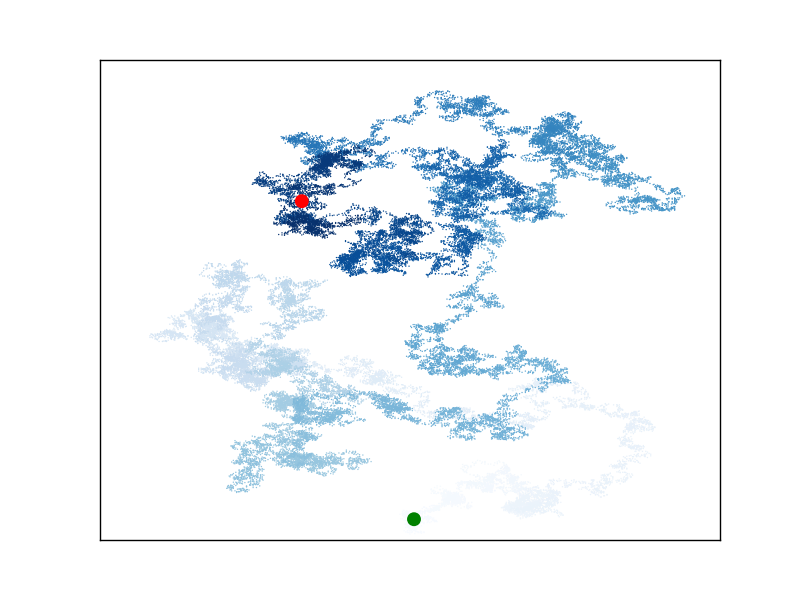
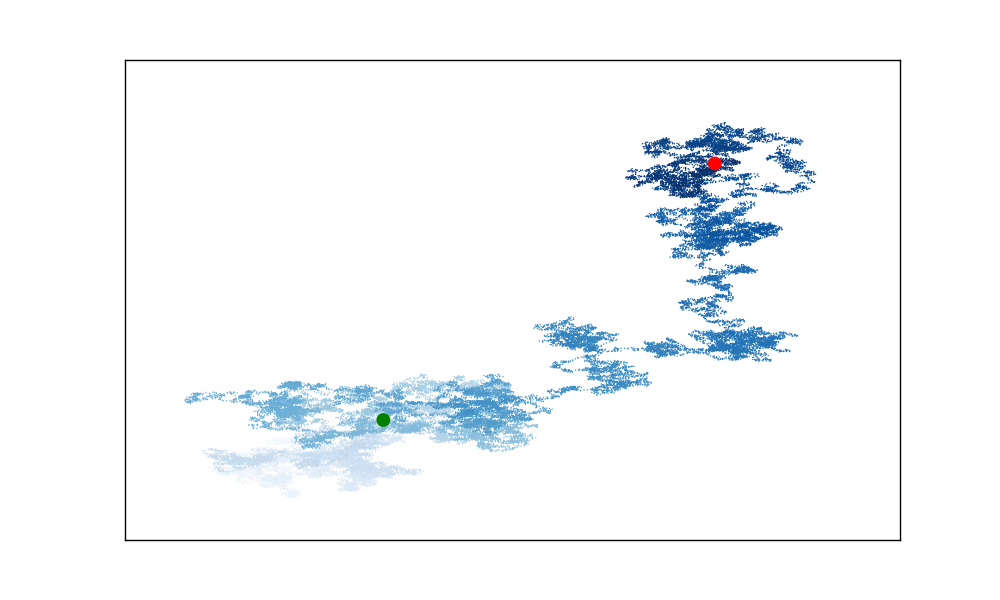
add plot points

Changed region(s): [[0.1875, 0.15, 0.875, 0.84], [0.5, 0.84, 0.5312, 0.9]]

diff --git a/rw_visual.py b/rw_visual.py
@@ -8,6 +8,9 @@ while True:
     rw = RandomWalk(50000)
     rw.fill_walk()
 
+    #set the size of the plotting window
+    plt.figure(figsize=(10, 6))
+
     #Plot points and show the plot
     point_numbers = list(range(rw.num_points))
     plt.scatter(rw.x_values, rw.y_values, c=point_numbers, cmap=plt.cm.Blues,
